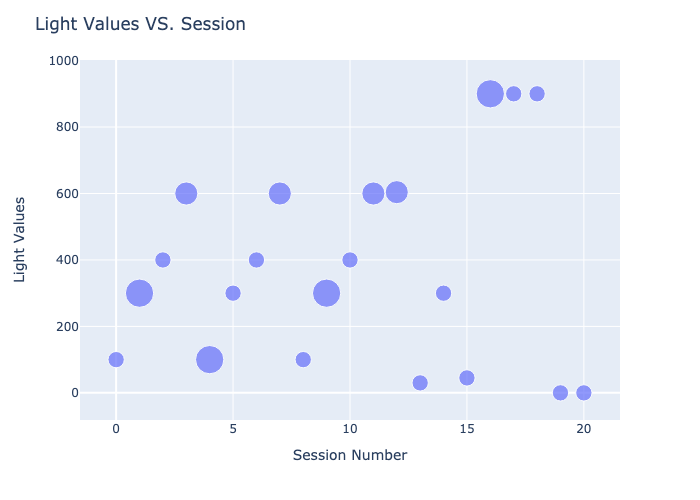
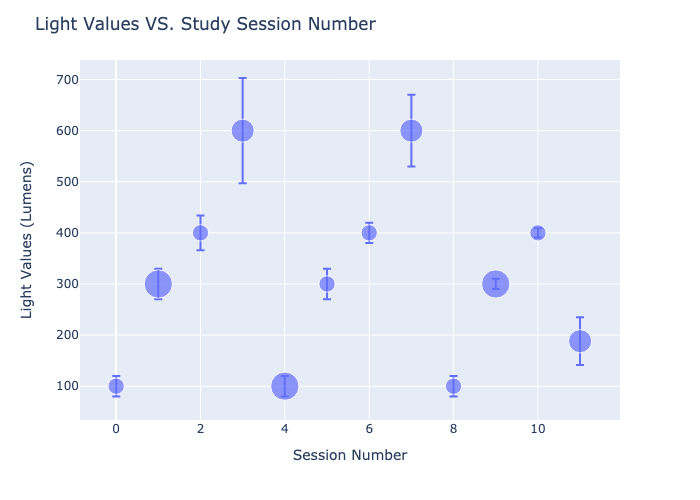
process individual session csv + write to total session csv + calculate averages/std + error bars + optimal light and humidity calculations

diff --git a/templates/designoption1.html b/templates/designoption1.html
@@ -1,11 +1,12 @@
 <!doctype html>
-<title>Home</title>
+<title>HLBoost</title>
+<link rel="stylesheet" href="main.css">
 <link rel="stylesheet" href="https://cdn.jsdelivr.net/npm/bootstrap@4.1.3/dist/css/bootstrap.min.css" integrity="sha384-MCw98/SFnGE8fJT3GXwEOngsV7Zt27NXFoaoApmYm81iuXoPkFOJwJ8ERdknLPMO" crossorigin="anonymous">
 <body>
     <div class="container">
         <div id="nav">
             <nav class="navbar navbar-expand-lg navbar-dark bg-primary">
-                <a class="navbar-brand" href="#">HLBoost</a>
+                <a class="navbar-brand" href="/">HLBoost</a>
                 <button class="navbar-toggler" type="button" data-toggle="collapse" data-target="#navbarNavAltMarkup" aria-controls="navbarNavAltMarkup" aria-expanded="false" aria-label="Toggle navigation">
                 <span class="navbar-toggler-icon"></span>
                 </button>
@@ -18,18 +19,41 @@
                 </div>
             </nav>
         </div>
-        {% if is_last_session_rated %}
-        <div class="card w-50">
-            <div class="card-body">
-                <img src="/static/designoption1fig1.png" alt="Light Chart">
+        {% if is_last_session_rated %}          
+          <div style="margin-top: 20px; margin-bottom: 20px;" class="row">
+            <div class="col-sm-6">
+              <div class="card">
+                <div class="card-body">
+                    <img class="card-img" src="/static/designoption1fig1.png" alt="Light Chart">
+                </div>
               </div>
             </div>
-          
-          <div class="card w-50">
-            <div class="card-body">
-                <img src="/static/designoption1fig2.png" class="img-fluid" alt="Humidity Chart">
+            <div class="col-sm-6">
+              <div class="card">
+                <div class="card-body">
+                    <img class="card-img" src="/static/designoption1fig2.png" class="img-fluid" alt="Humidity Chart">
+                </div>
               </div>
-          </div>            
+            </div>
+          </div>
+          <div class="row">
+            <div class="col-sm-6">
+              <div class="card text-white bg-primary">
+                <div class="card-body">
+                  <h5 class="card-title">Optimal Light Value Based On Productivity:</h5>
+                  <p class="card-text">{{average_optimal_light_value}} Lumens</p>
+                </div>
+              </div>
+            </div>
+            <div class="col-sm-6">
+              <div class="card text-white bg-success">
+                <div class="card-body">
+                  <h5 class="card-title">Optimal Humidity Percentage Based On Productivity:</h5>
+                  <p class="card-text">{{average_optimal_humidity_value}} %</p>
+                </div>
+              </div>
+            </div>
+          </div>
         {% endif %}
     </div>
 </body>

diff --git a/templates/designoption3.html b/templates/designoption3.html
@@ -19,23 +19,7 @@
             </nav>
         </div>
         {% if is_last_session_rated %}
-        <div style="margin-top: 20px; margin-bottom: 20px;" class="row">
-            <div class="col-sm-6">
-              <div class="card">
-                <div class="card-body">
-                    <img class="card-img" src="/static/designoption2fig1.png" alt="Light Chart">
-                </div>
-              </div>
-            </div>
-            <div class="col-sm-6">
-              <div class="card">
-                <div class="card-body">
-                    <img class="card-img" src="/static/designoption2fig2.png" class="img-fluid" alt="Humidity Chart">
-                </div>
-              </div>
-            </div>
-          </div>
-          <div class="row">
+          <div class="row" style="margin-top: 20px;">
             <div class="col-sm-6">
               <div class="card text-white bg-primary">
                 <div class="card-body">

diff --git a/templates/main.css b/templates/main.css
@@ -1,0 +1,6 @@
+.card-img {
+    background-size: cover;
+    background-repeat: no-repeat;
+    background-position: center center;
+    height: 350px;
+ }

diff --git a/app.py b/app.py
@@ -1,6 +1,8 @@
-import pandas as pd
+from statistics import mean, pstdev
+from numpy import False_
 from flask import Flask, render_template
 from sqlalchemy import false
+import pandas as pd
 
 from DV_Option_1.option_1 import generate_design_option_one
 from DV_Option_2.option_2 import generate_design_option_two
@@ -8,32 +10,86 @@ from DV_Option_3.option_3 import generate_design_option_three
 
 app = Flask(__name__)
 
-IS_LAST_SESSION_RATED = False # Default for now
-CSV_FILE_NAME = 'test.csv'
+IS_LAST_SESSION_RATED = False # Default when server starts up
+TOTAL_SESSIONS_DATA_CSV = 'CSV/test.csv' # CSV record that contains data for the Design Option Visualizations
 
-def read_csv():
-    df = pd.read_csv(CSV_FILE_NAME, index_col=0)
+# CSV record that contains data for a single study session to compute average lux and humididty averages to represent a singular study session
+TEST_INDIVIDUAL_SESSION_DATA_CSV = 'CSV/10_55_54_7_7_2022.csv'
+
+# Function that reads csv files and converts them into a Pandas Dataframe
+# that can be used to easily manipulate the data and create data visualizations.
+def read_csv(is_individual_session_file=False):
+    # Depends on what action is performed by the user on the web app,
+    # we decide which csv file to be read
+    if is_individual_session_file:
+        df = pd.read_csv(TEST_INDIVIDUAL_SESSION_DATA_CSV)
+    else:
+        df = pd.read_csv(TOTAL_SESSIONS_DATA_CSV, index_col=0)
     return df
 
+# Function that processes the individual study session data csv
+def process_indiviual_session_data():
+    df_individual = read_csv(True)
+    print(df_individual.head())
+
+    # Computing Averages to represent session
+    session_average_lux = mean(list(df_individual['Lux']))
+    session_average_humididty= mean(list(df_individual['Humidity']))
+
+    # Computing Standard Deviation to account for variation in data
+    session_std_lux = pstdev(list(df_individual['Lux']))
+    session_std_humididty= pstdev(list(df_individual['Humidity']))
+
+    # Updating Total Session csv with new row for new individual session
+    df_total = read_csv()
+    df_total.iloc[-1] = [session_average_lux, session_average_humididty, 0, session_std_lux, session_std_humididty]
+    df_total.to_csv(TOTAL_SESSIONS_DATA_CSV, index=false)
+    
+# Function that determines if the user has completed the questionaire (rated their productivity) for the last study session    
 def determine_if_last_session_rated(df):
+    # Get last productivity value in dataframe
     rating = df['productivity'].iloc[-1]
+
+    # A rating of 0 means that the value is empty and no rating has been assigned
     if rating == 0:
         return False
     return True
 
+# Function that updates the productivity rating of the last study session row, based on the questionnaire rating from the user
 def update_last_session_rating(is_last_session_rated, df, rating):
     if is_last_session_rated:
         return df
     df['productivity'].iloc[-1]= rating
-    df.to_csv(CSV_FILE_NAME, index=false)
+
+    # Updating the total sessions csv by writing the dataframe into a csv
+    df.to_csv(TOTAL_SESSIONS_DATA_CSV, index=false)
     return df
 
+# Function that creates a list from [0,.., n] where n is the number of rows in the total sessions csv
 def get_length_df(df):
     length = []
     cur = 0
     for x in range(len(df['light'])):
         length.append(cur)
         cur += 1
+
+# Function that computes the optimal light and humidity environment value based on productivity ratings
+def compute_optimal_light_and_humidity_value(df):
+    # Finding max productivity rating and finding all rows with this value
+    max_rating = df['productivity'].max()
+    df.loc[df['productivity'] == max_rating]
+
+    # Computing average from optimal light and humidity values
+    average_optimal_light_value = mean(list(df['light']))
+    average_optimal_humidity_value = mean(list(df['humidity']))
+
+    return [round(average_optimal_light_value,2), round(average_optimal_humidity_value,2)]
+
+# app.route dictates what html page is loaded when the user enters the website based on their url
+# ex. {WEBSITE_URL}/ - opens homepage
+# ex. {WEBSITE_URL}/design-option-1 - opens design option #1
+# ex. {WEBSITE_URL}/design-option-3 - opens design option #3
+
 
 @app.route('/')
 def start():
@@ -49,7 +105,8 @@ def design_option_1():
     df = update_last_session_rating(is_last_session_rated, df,2)
     length = get_length_df(df)
     generate_design_option_one(df, length)
-    return render_template('designoption1.html', is_last_session_rated=is_last_session_rated)
+    average_optimal_light_value, average_optimal_humidity_value = compute_optimal_light_and_humidity_value(df)
+    return render_template('designoption1.html', is_last_session_rated=is_last_session_rated, average_optimal_light_value=average_optimal_light_value, average_optimal_humidity_value=average_optimal_humidity_value)
 
 @app.route('/design-option-2')
 def design_option_2():
@@ -58,7 +115,8 @@ def design_option_2():
     df = update_last_session_rating(is_last_session_rated, df,2)
     length = get_length_df(df)
     generate_design_option_two(df, length)
-    return render_template('designoption2.html', is_last_session_rated=is_last_session_rated)
+    average_optimal_light_value, average_optimal_humidity_value = compute_optimal_light_and_humidity_value(df)
+    return render_template('designoption2.html', is_last_session_rated=is_last_session_rated, average_optimal_light_value=average_optimal_light_value, average_optimal_humidity_value=average_optimal_humidity_value)
 
 @app.route('/design-option-3')
 def design_option_3():
@@ -66,4 +124,5 @@ def design_option_3():
     is_last_session_rated = determine_if_last_session_rated(df)
     df = update_last_session_rating(is_last_session_rated, df,2)
     generate_design_option_three(df)
-    return render_template('index.html', is_last_session_rated=is_last_session_rated)
+    average_optimal_light_value, average_optimal_humidity_value = compute_optimal_light_and_humidity_value(df)
+    return render_template('designoption3.html', is_last_session_rated=is_last_session_rated, average_optimal_light_value=average_optimal_light_value, average_optimal_humidity_value=average_optimal_humidity_value)

diff --git a/DV_Option_1/option_1.py b/DV_Option_1/option_1.py
@@ -5,9 +5,9 @@ def generate_design_option_one(df, length):
     path = Path("option_1.py")
     upper_directory_path = str(path.parent.absolute())
 
-    fig = px.scatter(x=length, y=df['light'], color=df["productivity"], labels=dict(x="Session Number", y="Light Values", color="Producitivity Rating"))
-    fig.update_layout(title="Light Values VS. Session")
+    fig = px.scatter(x=length, y=df['light'], color=df["productivity"], error_y=df['std_light'], labels=dict(x="Session Number", y="Light Values (Lumens)", color="Producitivity Rating"))
+    fig.update_layout(title="Light Values VS. Study Session Number")
     fig.write_image(upper_directory_path + "/static/designoption1fig1.png")
-    fig = px.scatter(x=length, y=df['humidity'], color=df["productivity"], labels=dict(x="Session Number", y="Humidity Values", color="Producitivity Rating"))
-    fig.update_layout(title="Humidity Values VS. Session")
+    fig = px.scatter(x=length, y=df['humidity'], color=df["productivity"], error_y=df['std_humidity'], labels=dict(x="Session Number", y="Humidity Values (%)", color="Producitivity Rating"))
+    fig.update_layout(title="Humidity Percentage VS. Study Session Number")
     fig.write_image(upper_directory_path + "/static/designoption1fig2.png")

diff --git a/DV_Option_2/option_2.py b/DV_Option_2/option_2.py
@@ -5,9 +5,9 @@ def generate_design_option_two(df, length):
     path = Path("option_2.py")
     upper_directory_path = str(path.parent.absolute())
 
-    fig = px.scatter(x=length, y=df['light'], size=df["productivity"], labels=dict(x="Session Number", y="Light Values", size="Producitivity Rating"))
-    fig.update_layout(title="Light Values VS. Session")
+    fig = px.scatter(x=length, y=df['light'], size=df["productivity"], error_y=df['std_light'], labels=dict(x="Session Number", y="Light Values (Lumens)", size="Producitivity Rating"))
+    fig.update_layout(title="Light Values VS. Study Session Number")
     fig.write_image(upper_directory_path + "/static/designoption2fig1.png")
-    fig = px.scatter(x=length, y=df['humidity'], size=df["productivity"], labels=dict(x="Session Number", y="Humidity Values", size="Producitivity Rating"))
-    fig.update_layout(title="Humidity Values VS. Session")
+    fig = px.scatter(x=length, y=df['humidity'], size=df["productivity"], error_y=df['std_humidity'], labels=dict(x="Session Number", y="Humidity Values (%)", size="Producitivity Rating"))
+    fig.update_layout(title="Humidity Values VS. Study Session Number")
     fig.write_image(upper_directory_path + "/static/designoption2fig2.png")

diff --git a/DV_Option_3/option_3.py b/DV_Option_3/option_3.py
@@ -3,8 +3,8 @@ import plotly.graph_objects as go
 def generate_design_option_three(df):
     fig = go.Figure(data=[go.Mesh3d(x=df['light'], y=df['humidity'], z=df['productivity'], color='lightpink', opacity=0.50)])
     fig.update_layout(title='HLBoost', scene = dict(
-                    xaxis_title='Light Values',
-                    yaxis_title='Humidity Values',
+                    xaxis_title='Light Values (Lumens)',
+                    yaxis_title='Humidity Values (%)',
                     zaxis_title='Productivity Rating'),
                     autosize=False,width=1000, height=1000, margin=dict(l=65, r=50, b=65, t=90))
     fig.show()
